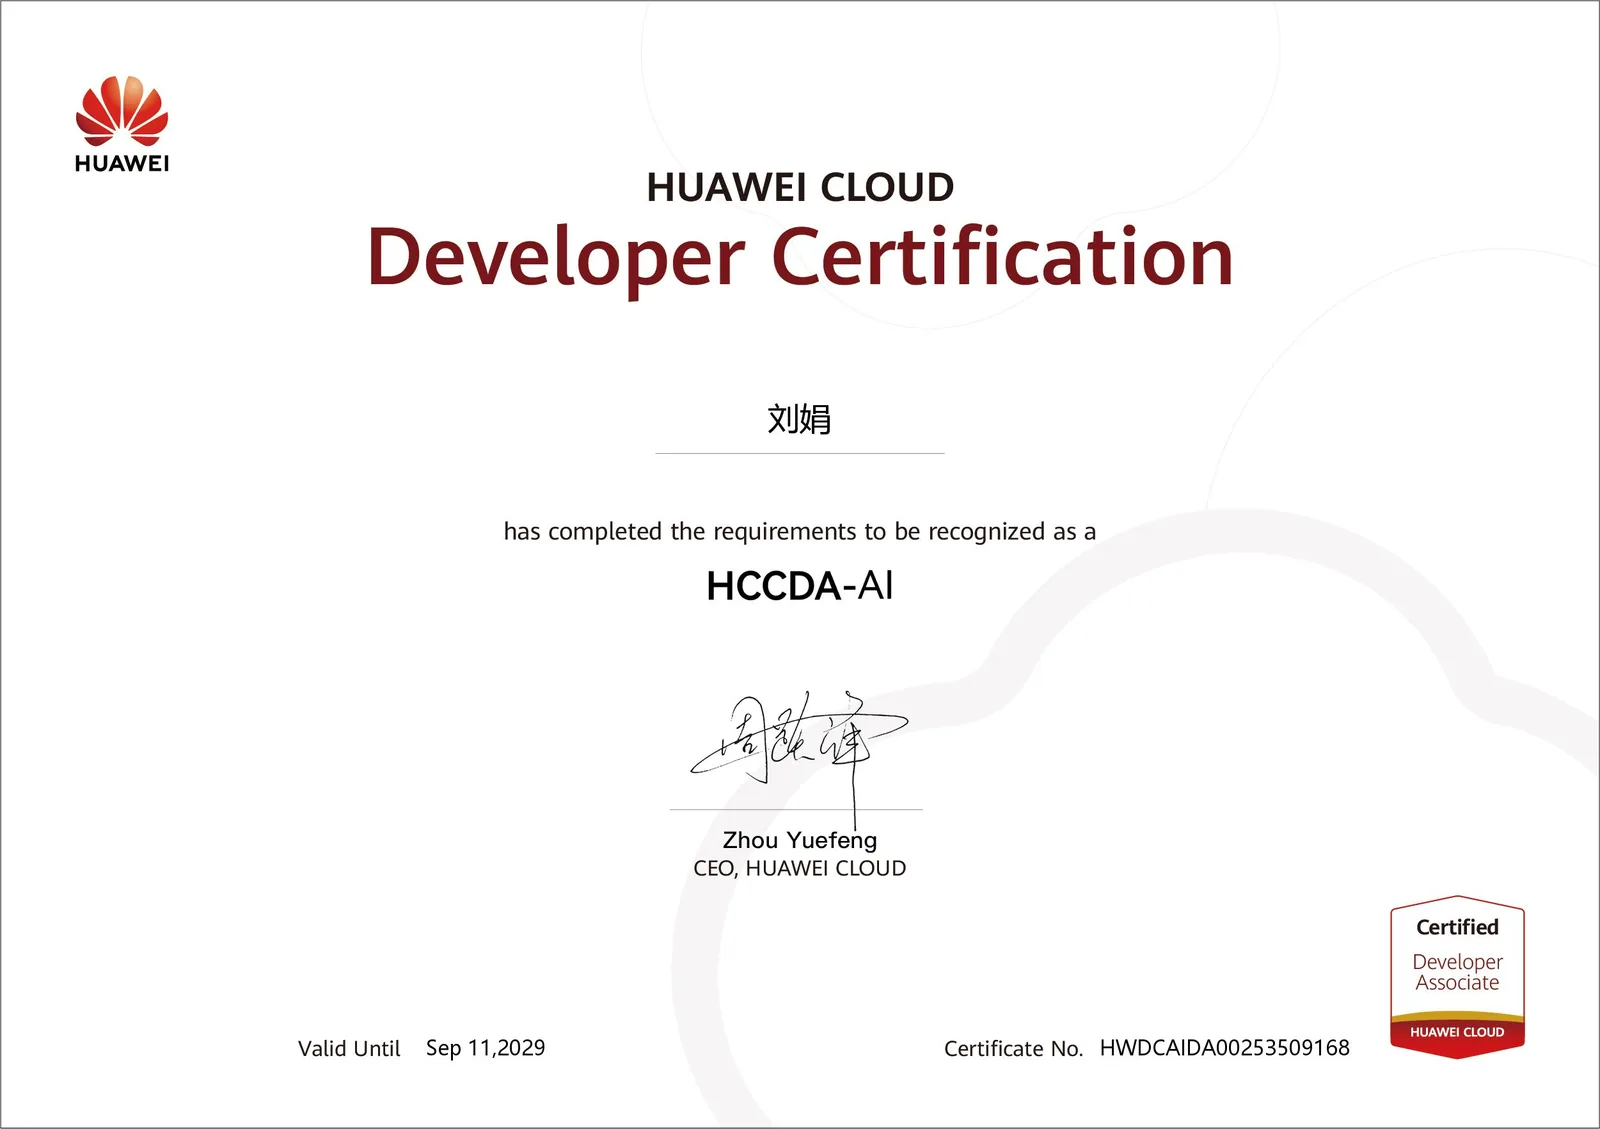
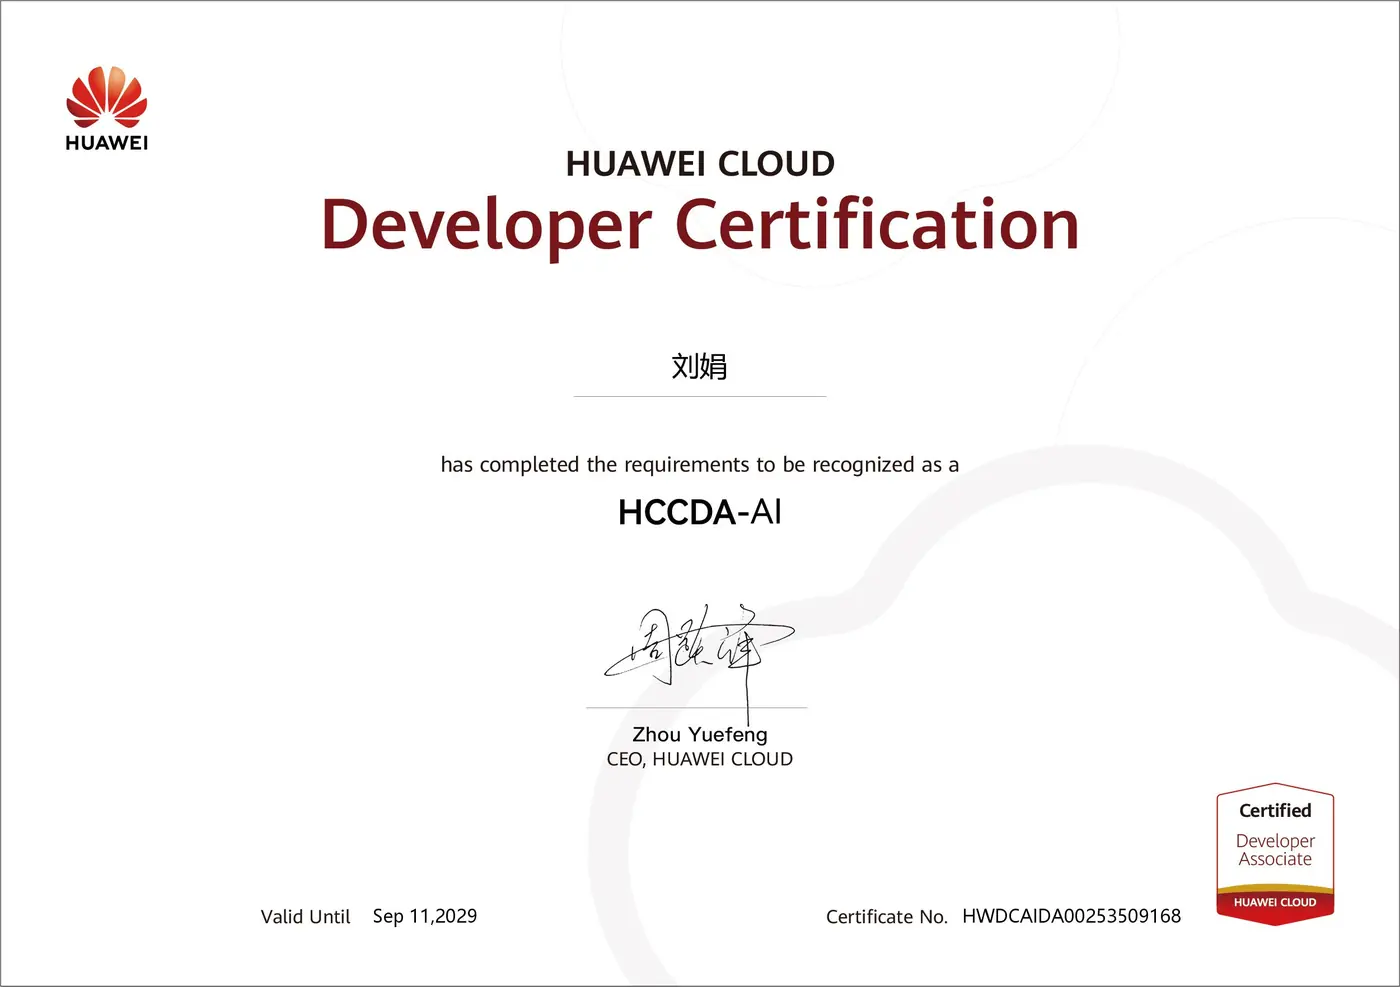
证书/奖项图优化：压缩37%（1.16MB→0.73MB，最长边1400+q76）+接近奖项区时后台预加载+Lightbox加载转圈与淡入；补充发布脚本同步assets

diff --git a/index.html b/index.html
@@ -1373,7 +1373,19 @@ section[id]{scroll-margin-top:78px;}
 }
 .toast-copy.show{opacity:1;transform:translate(-50%,0);}
 
-/* 6) 小屏收敛：滚动提示、胶囊字号 */
+/* 6) Lightbox 加载反馈：图未到位显示转圈，到位后淡入（避免「点了没反应」） */
+.lightbox-img{opacity:0;transition:opacity .28s var(--ease);}
+.lightbox-img.loaded{opacity:1;}
+.lb-spinner{
+  position:absolute;left:50%;top:50%;width:38px;height:38px;margin:-19px 0 0 -19px;
+  border:3px solid rgba(255,255,255,.22);border-top-color:#fff;border-radius:50%;
+  animation:lbSpin .8s linear infinite;pointer-events:none;opacity:0;
+  transition:opacity .2s var(--ease);
+}
+.lb-spinner.show{opacity:1;}
+@keyframes lbSpin{to{transform:rotate(360deg);}}
+
+/* 7) 小屏收敛：滚动提示、胶囊字号 */
 @media (max-width:760px){
   .hero-scroll{display:none;}
   .hero-roles{gap:7px;}
@@ -2198,7 +2210,8 @@ section[id]{scroll-margin-top:78px;}
     <button class="lb-nav lb-prev" onclick="lbStep(-1)" aria-label="上一张">‹</button>
     <button class="lb-nav lb-next" onclick="lbStep(1)" aria-label="下一张">›</button>
     <div class="lb-counter" id="lbCounter"></div>
-    <img loading="lazy" decoding="async" src="" alt="" class="lightbox-img" id="lightboxImg">
+    <div class="lb-spinner" id="lbSpinner"></div>
+    <img decoding="async" src="" alt="" class="lightbox-img" id="lightboxImg">
     <div class="lightbox-caption" id="lightboxCaption"></div>
   </div>
 </div>
@@ -2322,7 +2335,14 @@ document.addEventListener('keydown', function(e){ if(e.key === 'Escape') closePr
 
 function lbUpdate() {
   var list = window.lbList || [];
-  document.getElementById('lightboxImg').src = list[window.lbIndex] || '';
+  var img = document.getElementById('lightboxImg');
+  var spin = document.getElementById('lbSpinner');
+  img.classList.remove('loaded');
+  if(spin) spin.classList.add('show');
+  img.onload = function(){ img.classList.add('loaded'); if(spin) spin.classList.remove('show'); };
+  img.onerror = function(){ if(spin) spin.classList.remove('show'); };
+  img.src = list[window.lbIndex] || '';
+  if(img.complete && img.naturalWidth){ img.classList.add('loaded'); if(spin) spin.classList.remove('show'); }
   document.getElementById('lightboxCaption').textContent = (window.lbCaps && window.lbCaps[window.lbIndex]) || '';
   var hasNav = list.length > 1;
   document.getElementById('lbCounter').textContent = hasNav ? (window.lbIndex + 1) + ' / ' + list.length : '';
@@ -2531,6 +2551,40 @@ document.querySelectorAll('.skill-tag,.course-tag,.tag').forEach(function(t){
   sc.style.transition = 'opacity .3s ease, border-color .26s ease';
   window.addEventListener('scroll', onScroll, {passive:true});
   onScroll();
+})();
+
+// 8) 证书 / 奖项图预加载
+// 这些图只在点开 Lightbox 时才显示，浏览器不会主动下载 → 点击后要现下（最大一张近 0.5MB），
+// 在国内访问 GitHub Pages 的延迟下会卡好几秒。这里在用户接近奖项区时后台逐张预取。
+(function(){
+  if(!window.CERT_IMAGES) return;
+  var keys = Object.keys(window.CERT_IMAGES);
+  if(!keys.length) return;
+  var started = false;
+  function prefetch(){
+    if(started) return;
+    started = true;
+    var i = 0;
+    (function next(){
+      if(i >= keys.length) return;
+      var im = new Image();
+      im.onload = im.onerror = function(){ i++; setTimeout(next, 200); };  // 逐张、错开，不抢带宽
+      im.src = window.CERT_IMAGES[keys[i]];
+    })();
+  }
+  var anchor = document.querySelector('.award-card') || document.getElementById('education');
+  if(anchor && 'IntersectionObserver' in window){
+    var cio = new IntersectionObserver(function(es){
+      es.forEach(function(e){ if(e.isIntersecting){ prefetch(); cio.disconnect(); } });
+    }, {rootMargin:'700px 0px'});   // 提前 700px 开始预取
+    cio.observe(anchor);
+  }
+  // 兜底：滚过 45% 也触发
+  window.addEventListener('scroll', function(){
+    if(window.scrollY > document.documentElement.scrollHeight * 0.45) prefetch();
+  }, {passive:true});
+  // 再兜底：闲置 5 秒后后台预取
+  setTimeout(prefetch, 5000);
 })();
 
 </script>
